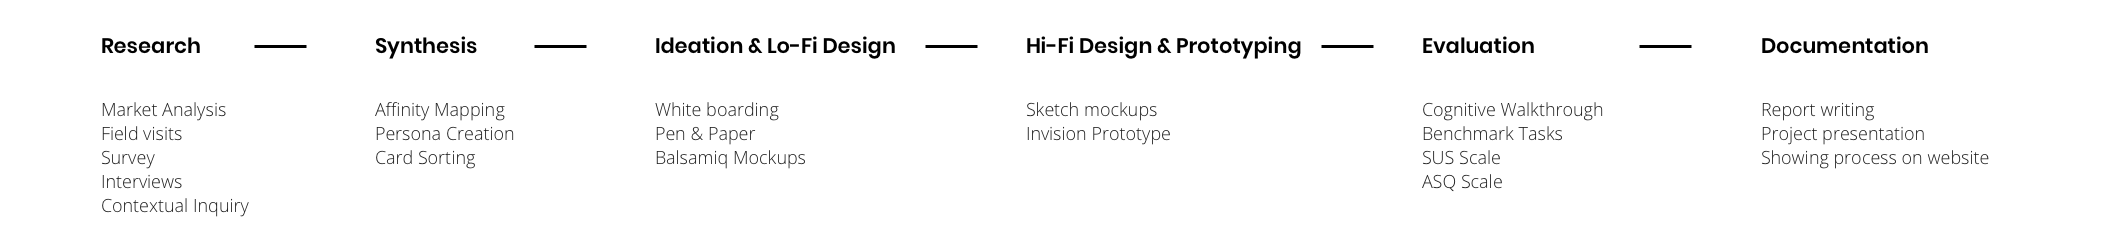
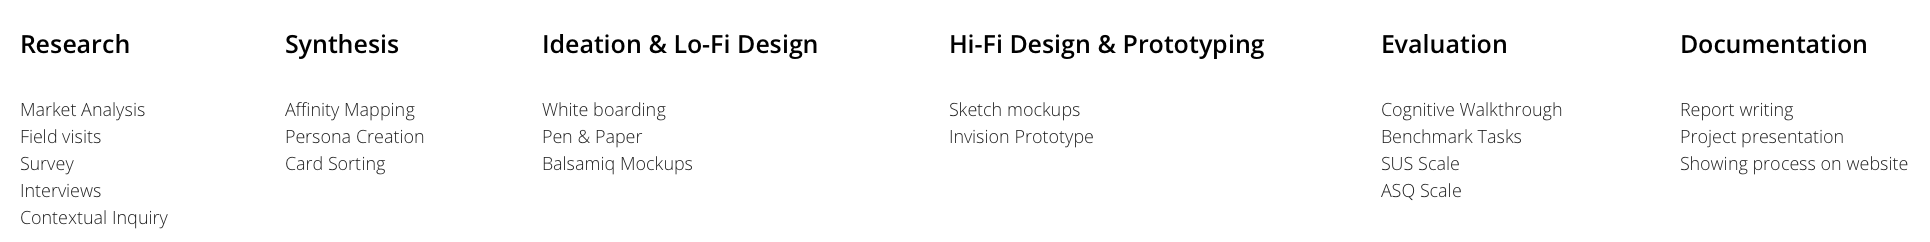
fix process images cinemall & bravos

diff --git a/cinemallV2.html b/cinemallV2.html
@@ -290,7 +290,7 @@
 
         <div class="row">
             <div class="col-md-12">
-                <p class=" text-center feature-title">High-Level Process</p><br>
+                <!--<p class=" text-center feature-title">High-Level Process</p><br>-->
                 <img src="images/v2/cinemall/cinemall-process.png" class="img-responsive"/>
             </div>
         </div>

diff --git a/bravosV2.html b/bravosV2.html
@@ -284,7 +284,7 @@
 
     <div class="row">
         <div class="col-md-12">
-            <p class="feature-title text-center">High-Level Process</p><br>
+            <!--<p class="feature-title text-center">High-Level Process</p><br>-->
             <img src="images/v2/bravos/bravos-process.png" class="img-responsive"/>
         </div>
     </div>
